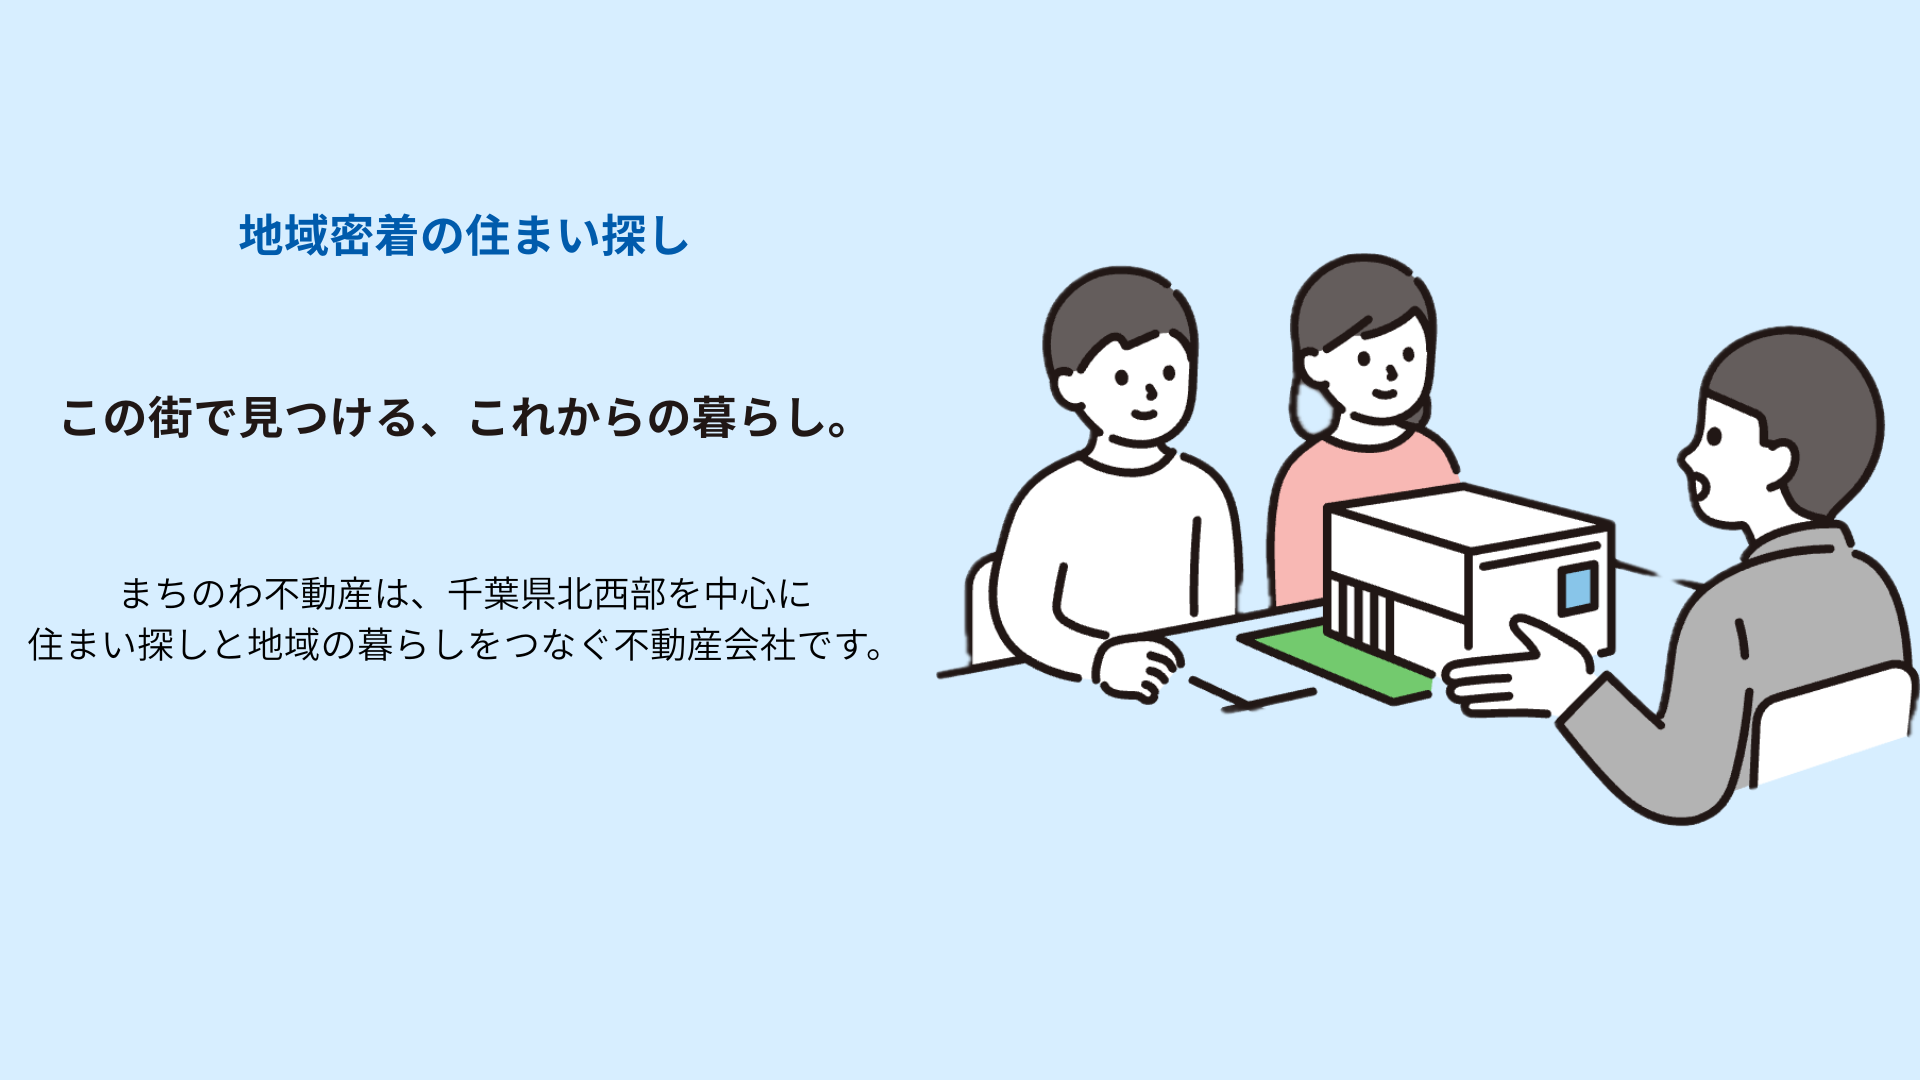
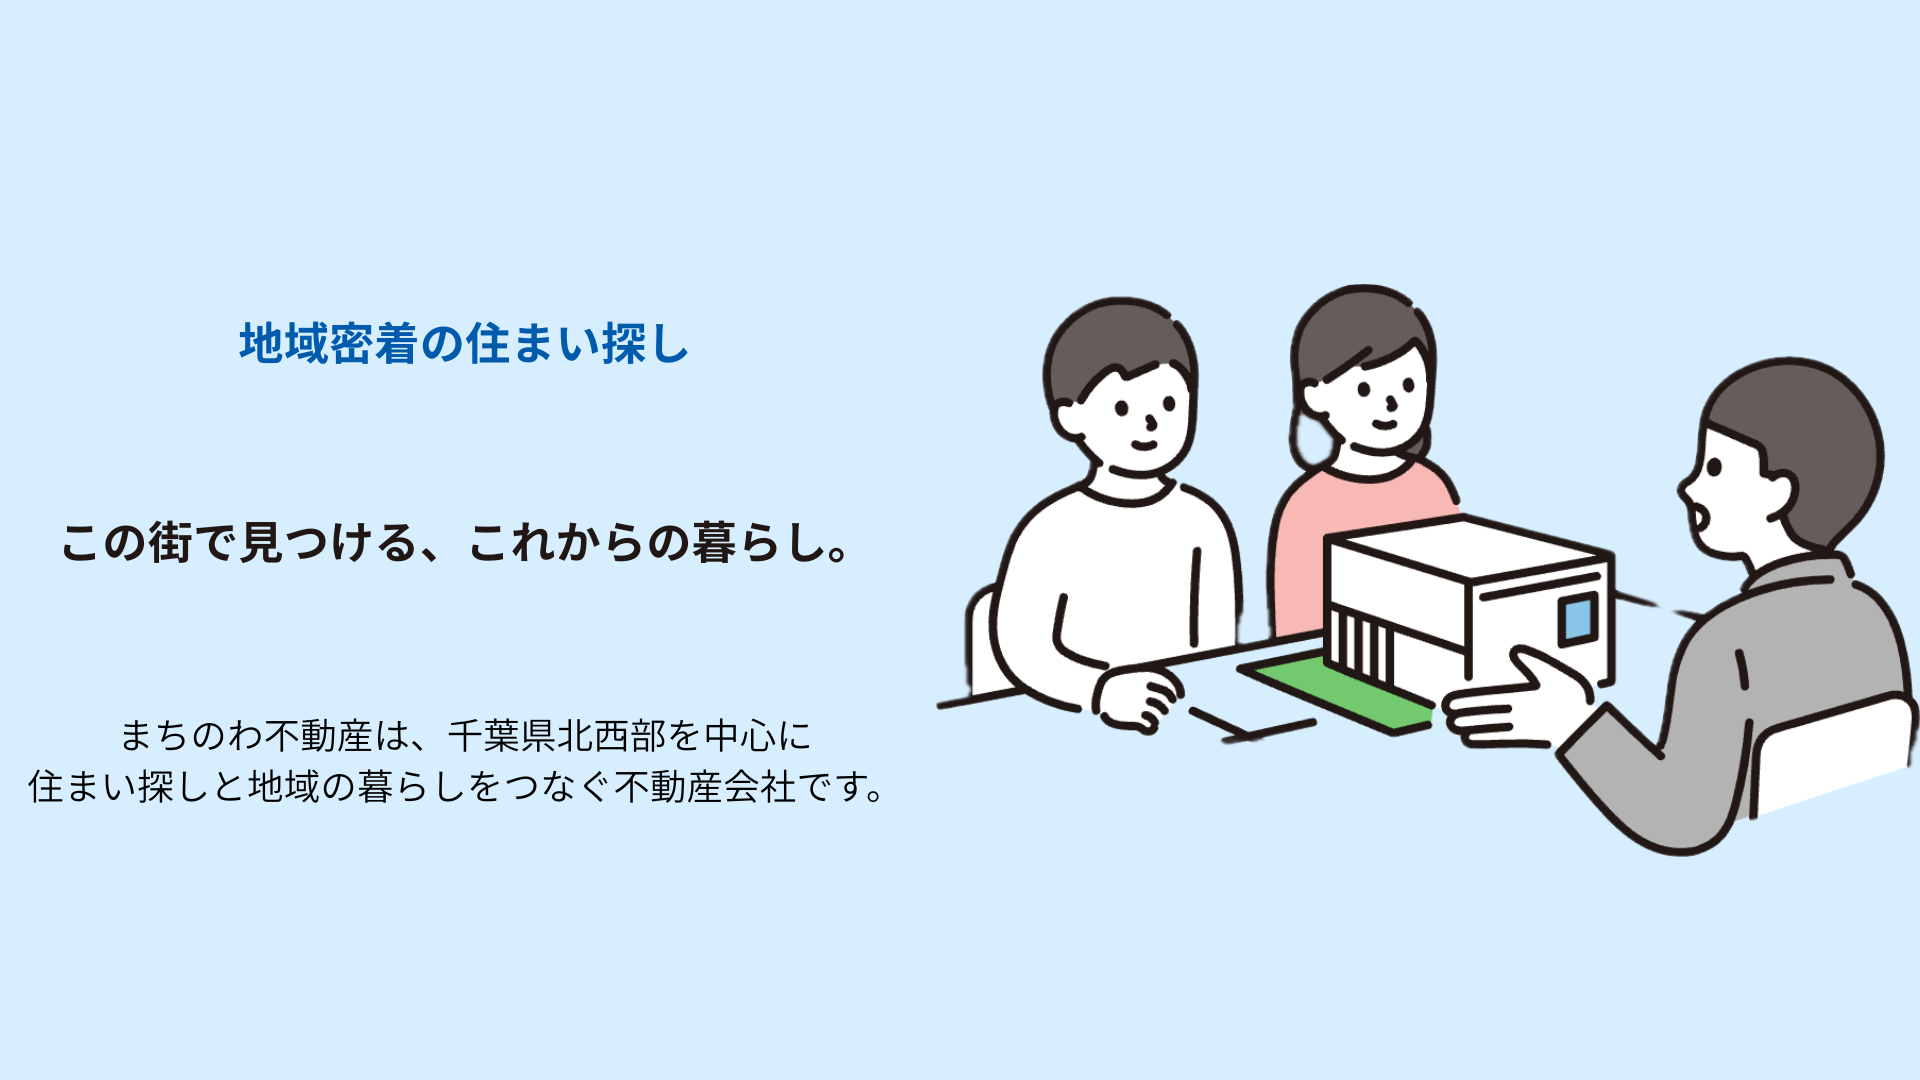
8/16作成分

diff --git a/index.html b/index.html
@@ -160,40 +160,29 @@
           <h3 class="c-mainTitle">Property</h3>
           <p class="c-mainText">まちのわ不動産が選ぶ、暮らしやすさにこだわったおすすめ物件をご紹介します。</p>
         </div>
-        <div class="p-property__tabs">
-          <button class="c-propertyButton c-propertyButton--active" type="button" data-category="rent">賃貸</button>
-          <button class="c-propertyButton" type="button" data-category="buy">売買</button>
-          <button class="c-propertyButton" type="button" data-category="new">新築</button>
-        </div>
         <div class="p-property__list">
           <article class="p-propertyCard">
-            <img class="c-propertyImage">
+            <img class="c-propertyImage" src="./assets/images/property-1.png" alt="物件情報の画像">
             <div class="p-propertyCard__body">
               <span class="c-propertyLabel">賃貸</span>
-              <span class="c-propertyTitle">船橋市本町 / 2LDK</span>
-              <span class="c-propertyHeading">12.5万円</span>
+              <span class="c-propertyTitle">船橋市本町 / 2LDK / 12.5万円</span>
               <p class="c-propertyText">駅徒歩8分。南向き・オートロック付きのファミリー向け物件です。</p>
-              <a class="c-propertyLink" href="#">詳しく見る</a>
             </div>
           </article>
           <article class="p-propertyCard">
-            <img class="c-propertyImage">
+            <img class="c-propertyImage" src="./assets/images/property-2.png" alt="物件情報の画像">
             <div class="p-propertyCard__body">
               <span class="c-propertyLabel">売買</span>
-              <span class="c-propertyTitle">松戸市新松戸 / 3LDK</span>
-              <span class="c-propertyHeading">3,280万円</span>
+              <span class="c-propertyTitle">松戸市新松戸 / 3LDK / 3,280万円</span>
               <p class="c-propertyText">買い物施設が身近にそろう、暮らしやすい中古マンションです。</p>
-              <a class="c-propertyLink" href="#">詳しく見る</a>
             </div>
           </article>
           <article class="p-propertyCard">
-            <img class="c-propertyImage">
+            <img class="c-propertyImage" src="./assets/images/property-3.png" alt="物件情報の画像">
             <div class="p-propertyCard__body">
               <span class="c-propertyLabel">新築</span>
-              <span class="c-propertyTitle">鎌ケ谷市中央 / 4LDK</span>
-              <span class="c-propertyHeading">3,980万円</span>
+              <span class="c-propertyTitle">鎌ケ谷市中央 / 4LDK / 3,980万円</span>
               <p class="c-propertyText">駐車場2台分。小学校徒歩圏内のファミリー向け新築戸建てです。</p>
-              <a class="c-propertyLink" href="#">詳しく見る</a>
             </div>
           </article>
         </div>

diff --git a/assets/stylesheets/style.css b/assets/stylesheets/style.css
@@ -213,6 +213,14 @@
   margin: 0 100px;
 }
 
+.p-property__list {
+  display: flex;
+}
+
+.c-propertyImage {
+  width: 400px;
+}
+
 /* ========================================
   Footer
 ======================================== */
